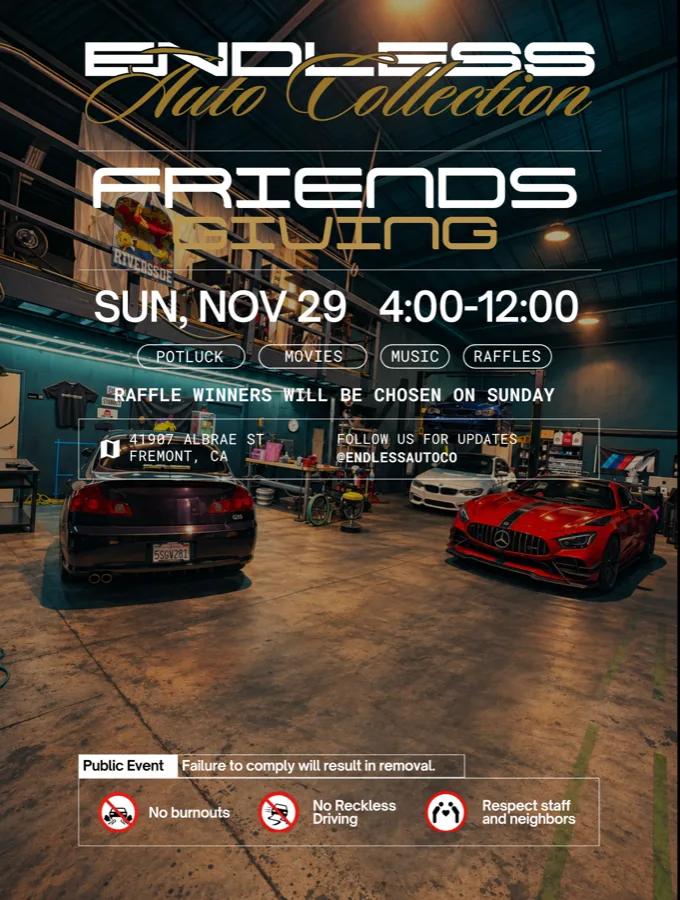
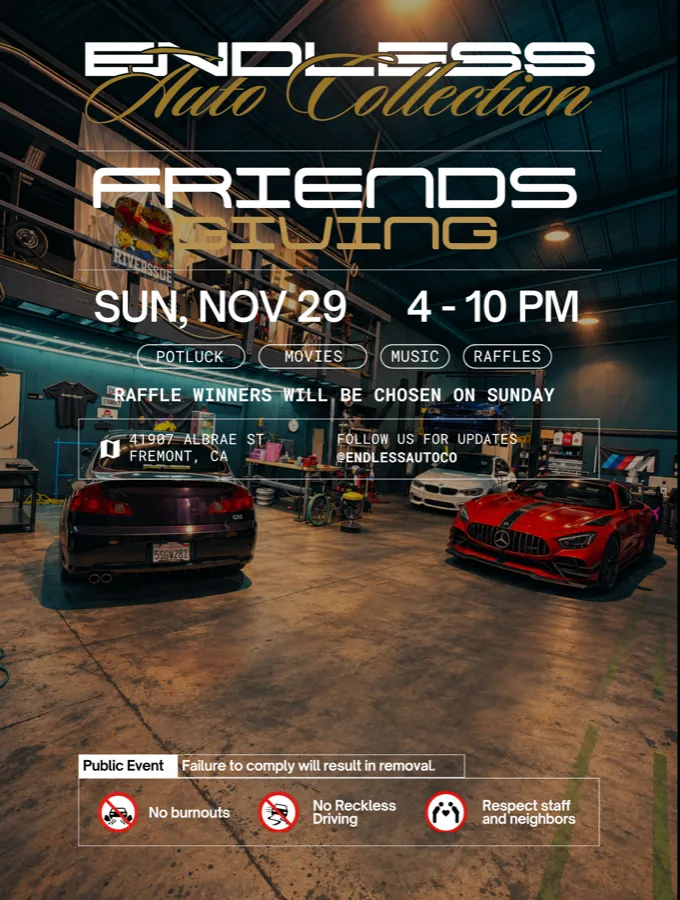
Events: use updated Friendsgiving flyer, 4 to 10 PM

Changed region(s): [[0.5559, 0.3111, 0.8647, 0.3733]]

diff --git a/events.html b/events.html
@@ -50,7 +50,7 @@ dialog.ev-lb::backdrop{background:rgba(0,0,0,.92)}
 .ev-lb-in img{max-width:100%;max-height:calc(100dvh - 2rem);width:auto;height:auto;border-radius:.5rem}
 .ev-lb-x{position:fixed;top:.75rem;right:1rem;font-size:2.25rem;line-height:1;color:#fff;background:none;border:0;cursor:pointer;z-index:2}
 </style>
-<script type="application/ld+json">{"@context":"https://schema.org","@type":"Event","name":"Friendsgiving at Endless Auto Collection","startDate":"2026-11-29T16:00:00-08:00","eventAttendanceMode":"https://schema.org/OfflineEventAttendanceMode","eventStatus":"https://schema.org/EventScheduled","location":{"@type":"Place","name":"Endless Auto Collection","address":{"@type":"PostalAddress","streetAddress":"41907 Albrae St","addressLocality":"Fremont","addressRegion":"CA","postalCode":"94538","addressCountry":"US"}},"image":"https://www.endlessautocollection.com/images/events/friendsgiving-flyer.webp","description":"Potluck, movies, music and raffles. Public event.","organizer":{"@type":"Organization","name":"Endless Auto Collection","url":"https://www.endlessautocollection.com"}}</script>
+<script type="application/ld+json">{"@context":"https://schema.org","@type":"Event","name":"Friendsgiving at Endless Auto Collection","startDate":"2026-11-29T16:00:00-08:00","endDate":"2026-11-29T22:00:00-08:00","eventAttendanceMode":"https://schema.org/OfflineEventAttendanceMode","eventStatus":"https://schema.org/EventScheduled","location":{"@type":"Place","name":"Endless Auto Collection","address":{"@type":"PostalAddress","streetAddress":"41907 Albrae St","addressLocality":"Fremont","addressRegion":"CA","postalCode":"94538","addressCountry":"US"}},"image":"https://www.endlessautocollection.com/images/events/friendsgiving-flyer.webp","description":"Potluck, movies, music and raffles. Public event.","organizer":{"@type":"Organization","name":"Endless Auto Collection","url":"https://www.endlessautocollection.com"}}</script>
 <link rel="stylesheet" href="/css/tailwind.css">
 </head>
 <body>
@@ -111,13 +111,13 @@ dialog.ev-lb::backdrop{background:rgba(0,0,0,.92)}
     </article>
     <article class="ev-card" aria-label="Sunday, Friendsgiving">
       <button type="button" class="ev-flyer" id="flyer-open" aria-haspopup="dialog" aria-label="Open the Friendsgiving flyer full size">
-        <img src="/images/events/friendsgiving-flyer-preview.webp" width="900" height="1190" alt="Friendsgiving flyer: Sunday Nov 29, 4:00 to 12:00, potluck, movies, music and raffles, at 41907 Albrae St, Fremont. Public event: no burnouts, no reckless driving, respect staff and neighbors." fetchpriority="high">
+        <img src="/images/events/friendsgiving-flyer-preview.webp" width="900" height="1190" alt="Friendsgiving flyer: Sunday Nov 29, 4 to 10 PM, potluck, movies, music and raffles, at 41907 Albrae St, Fremont. Public event: no burnouts, no reckless driving, respect staff and neighbors." fetchpriority="high">
         <span class="ev-zoom">Tap to enlarge</span>
       </button>
       <div class="p-6">
         <p class="ev-day">SUNDAY · NOV 29</p>
         <h2 class="heading-font text-2xl mt-2">Friendsgiving</h2>
-        <p class="text-white/70 mt-2">4:00 to 12:00 · 41907 Albrae St, Fremont</p>
+        <p class="text-white/70 mt-2">4 to 10 PM · 41907 Albrae St, Fremont</p>
         <div class="flex flex-wrap gap-2 mt-4"><span class="chip">POTLUCK</span><span class="chip">MOVIES</span><span class="chip">MUSIC</span><span class="chip">RAFFLES</span></div>
         <p class="text-white/50 text-sm mt-4">Raffle winners are chosen Sunday. Follow <a class="text-[#f0c869]" href="https://www.instagram.com/endlessautoco/" target="_blank" rel="noopener noreferrer">@endlessautoco</a> for updates.</p>
       </div>
